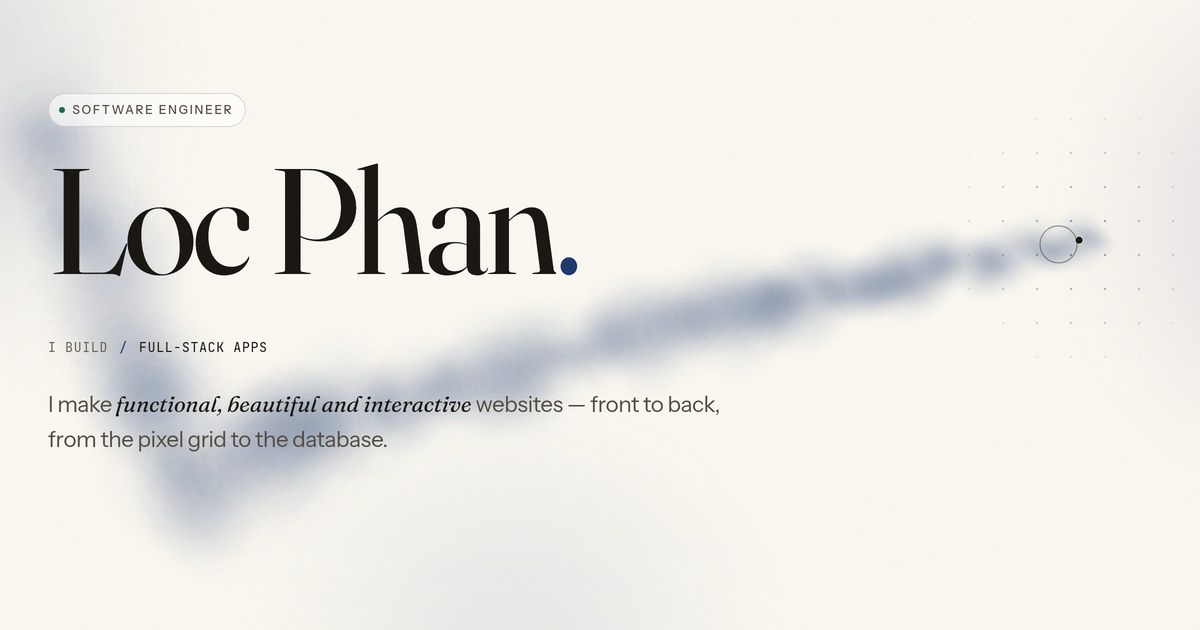
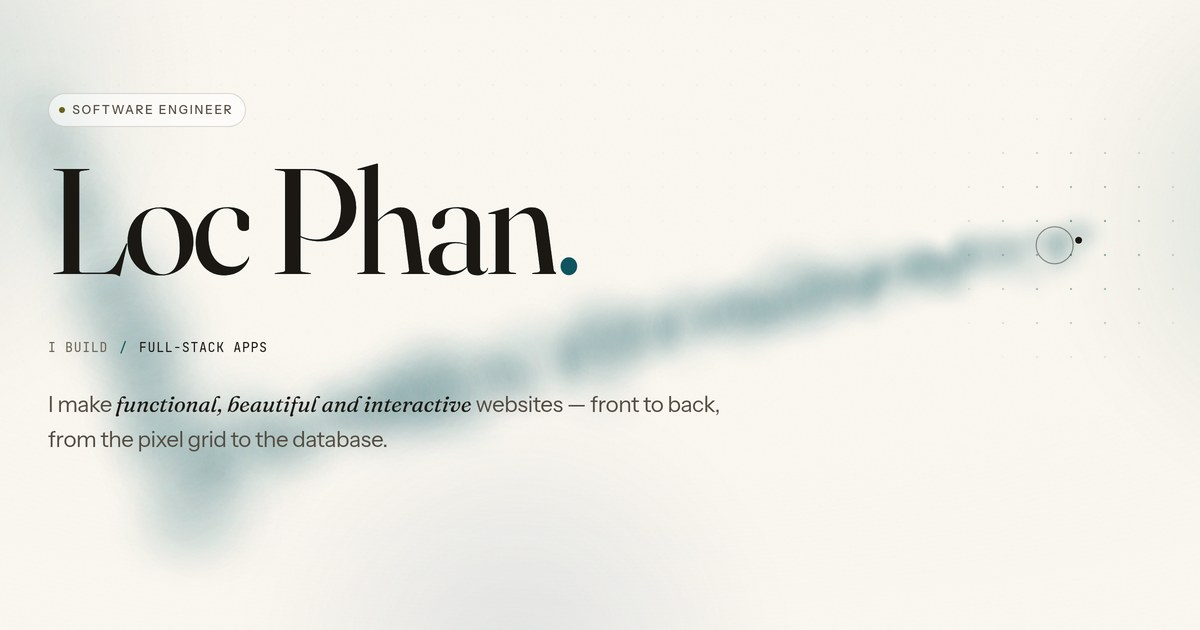
Set the accent to petrol teal
Picked from the five options. data-accent="petrol" is now the default, and
the share card is re-rendered from the live page so it carries the teal too.

The other four accent blocks stay in place while the type direction is still
open; they cost about sixty lines and let the accent be re-tried against
whichever skin wins.

Claude-Session: https://claude.ai/code/session_01KR4Dgat1Nr7JzAaB86gH2K

diff --git a/index.html b/index.html
@@ -1,5 +1,5 @@
 <!DOCTYPE html>
-<html lang="en" data-theme="dark" data-skin="atelier" data-accent="ink">
+<html lang="en" data-theme="dark" data-skin="atelier" data-accent="petrol">
 <head>
 <meta charset="utf-8">
 <meta name="viewport" content="width=device-width, initial-scale=1, viewport-fit=cover">
